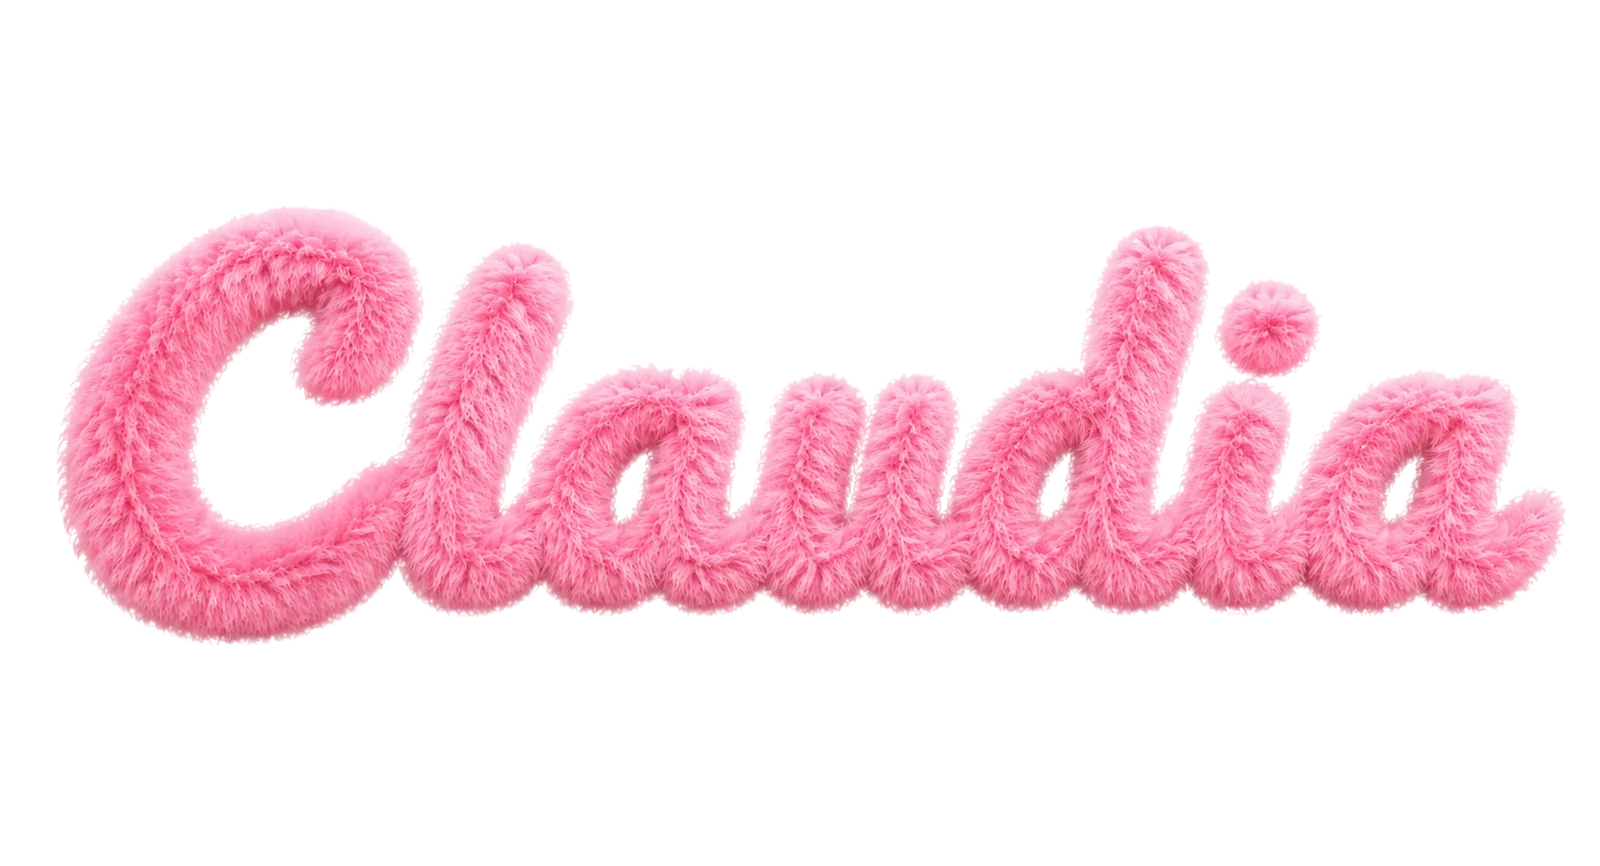
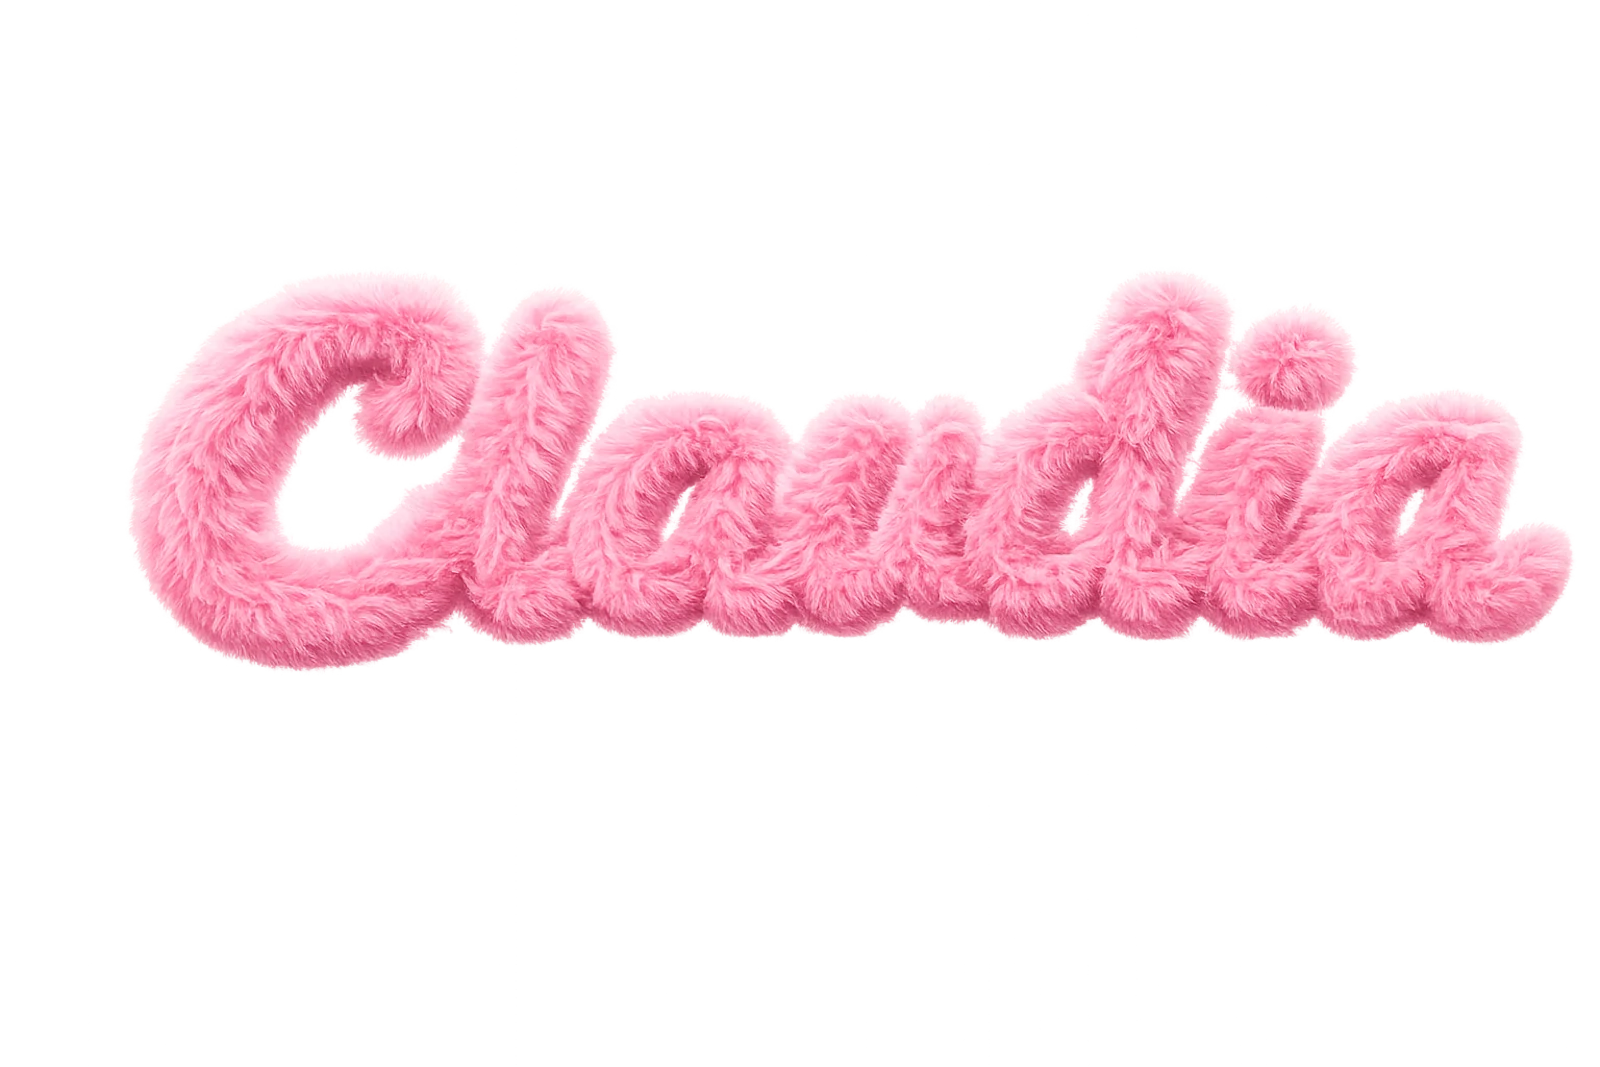
feat(hero): image fourrure v3 avec vrai canal alpha (PNG RGBA)
ChatGPT a enfin exporté en RGBA. Conversion webp directe sans
filtrage -transparent: alpha conservé tel quel, plus de liseré blanc.
Retire claudia-fluffy-raw.png qui n'était que pour le test.

Changed region(s): [[0.0312, 0.2182, 1.0, 0.7483]]

diff --git a/index.html b/index.html
@@ -42,7 +42,7 @@
       <div class="hero-content reveal">
         <p class="hero-eyebrow">Prothésiste ongulaire — Pertuis</p>
         <h1 class="hero-title hero-title--fluffy">
-          <img src="assets/claudia-fluffy-raw.png" alt="Claudia" class="hero-title-img">
+          <img src="assets/claudia-fluffy.webp" alt="Claudia" class="hero-title-img">
         </h1>
         <ul class="hero-services">
           <li><span class="hero-services-dot">✦</span> Chablon · pose d'extension</li>